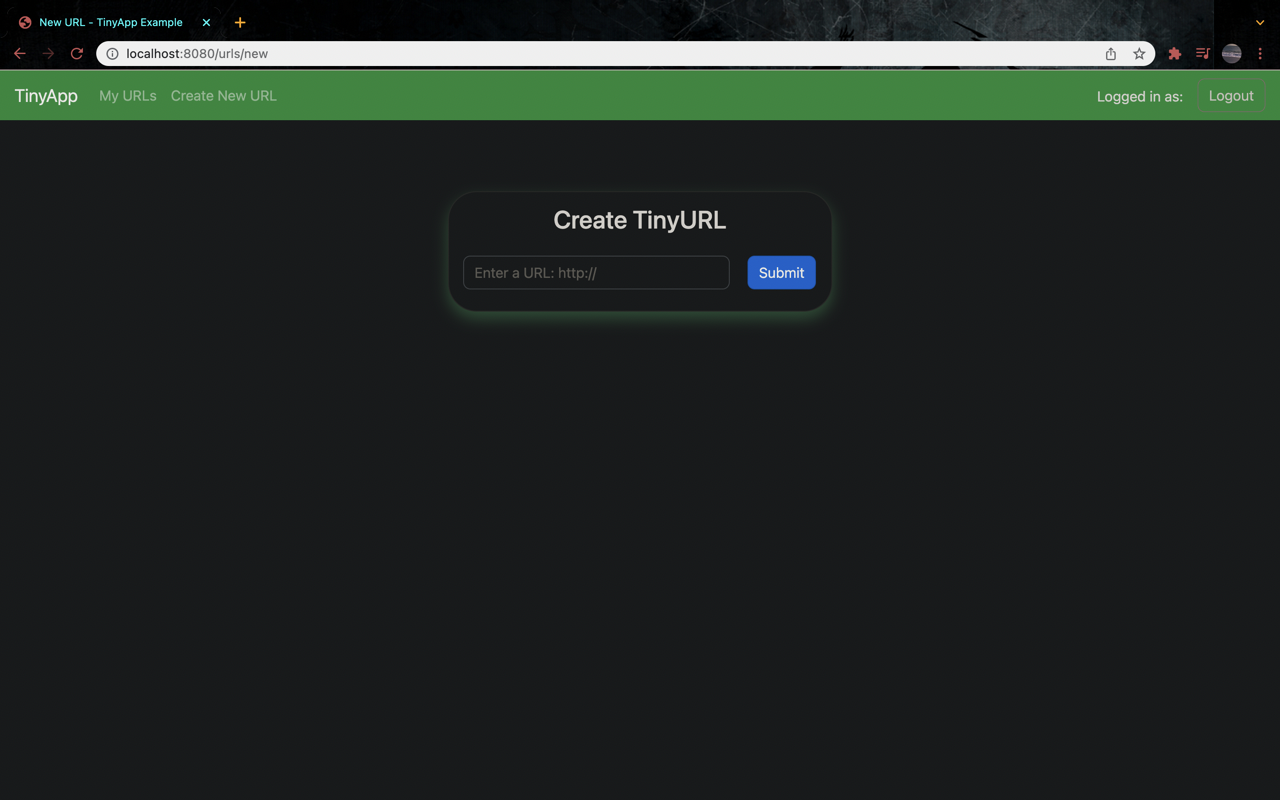
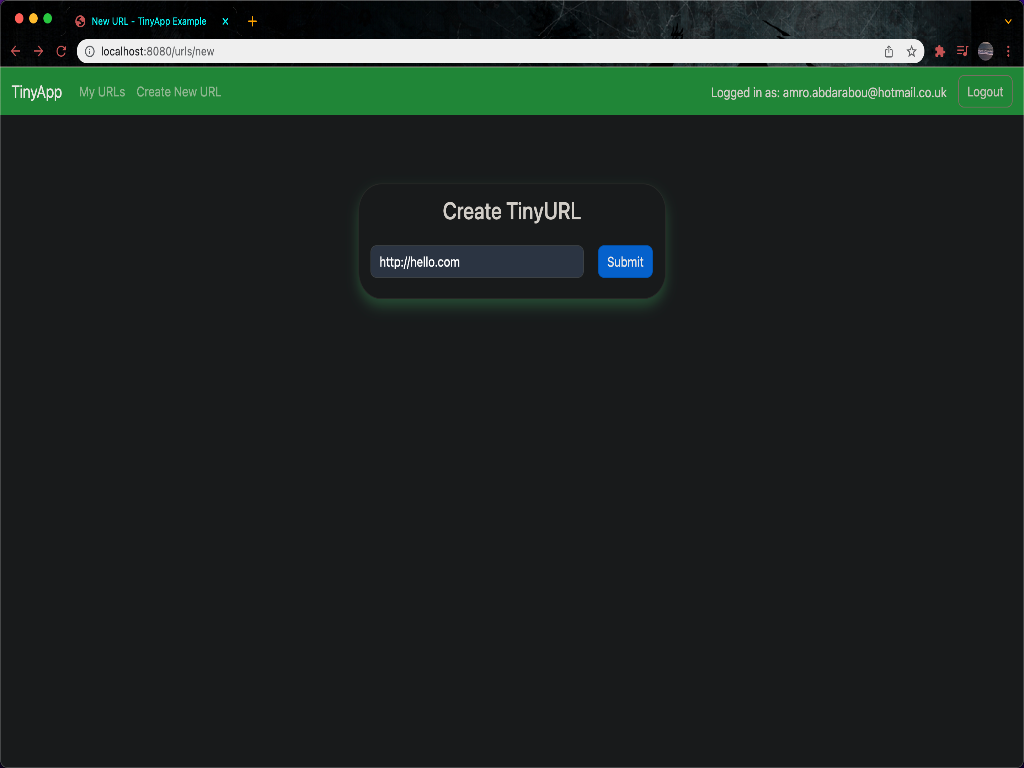
final edits

diff --git a/express_server.js b/express_server.js
@@ -36,8 +36,9 @@ app.get("/urls", (req, res) => {
 
 //adds new urls
 app.get("/urls/new", (req, res) => {
-  const user = req.session['user_id'];
-  if (!user) {
+  const userId = req.session['user_id'];
+  const user = users[userId];
+  if (!userId) {
     res.send('Login to view urls');
     return res.redirect('/login');
   }
@@ -47,9 +48,11 @@ app.get("/urls/new", (req, res) => {
 
 //assigning  shorturls to longurls
 app.get("/urls/:shortURL", (req, res) => {
+  const userId = req.session['user_id'];
+  const user = users[userId];
   const shortURL = req.params.shortURL;
   const longURL = urlDatabase[shortURL].longURL;
-  const templateVars = { shortURL, longURL, user: req.session['user_id'] };
+  const templateVars = { shortURL, longURL, user };
   res.render("urls_show", templateVars);
 });
 //creating shortUrls
@@ -72,9 +75,11 @@ app.get("/u/:shortURL", (req, res) => {
 
 //
 app.get("/urls/:shortURL/edit", (req, res) => {
+  const userId = req.session['user_id'];
+  const user = users[userId];
   const shortURL = req.params.shortURL;
   const longURL = urlDatabase[shortURL].longURL;
-  const templateVars = { shortURL, longURL, user: req.session['user_id'] };
+  const templateVars = { shortURL, longURL, user };
   res.render(`urls_show`, templateVars);
 });
 
